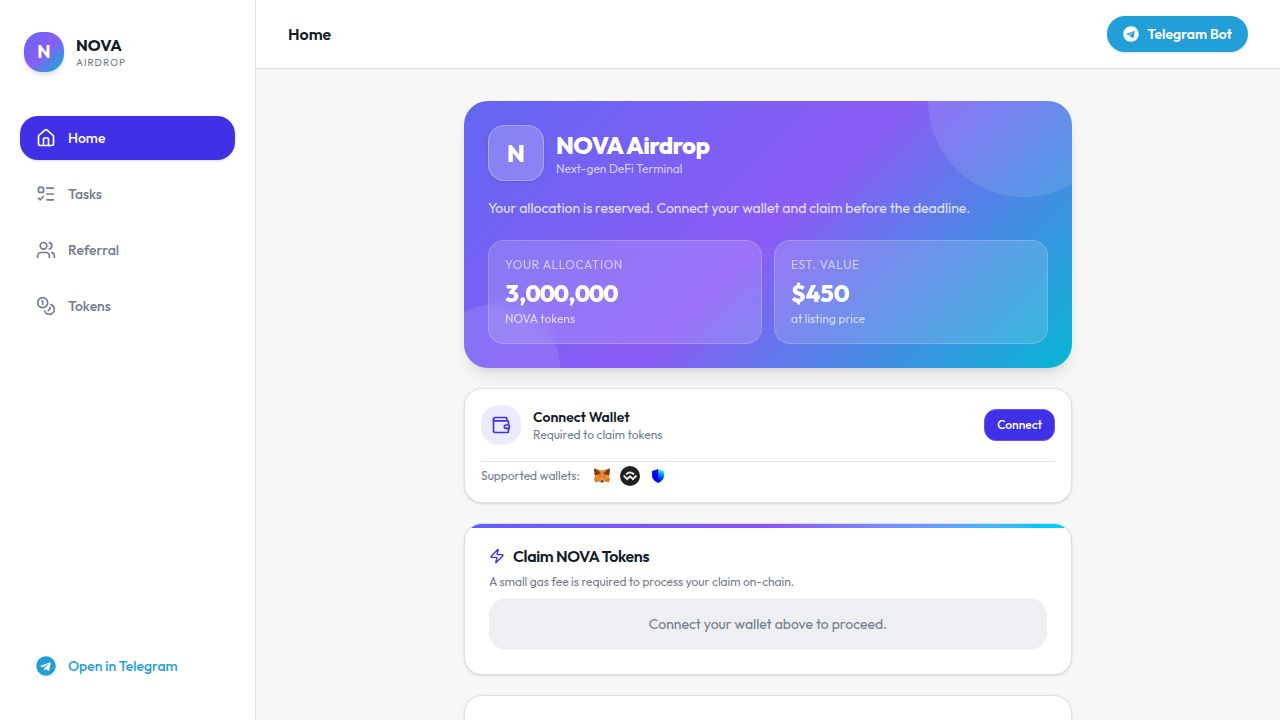
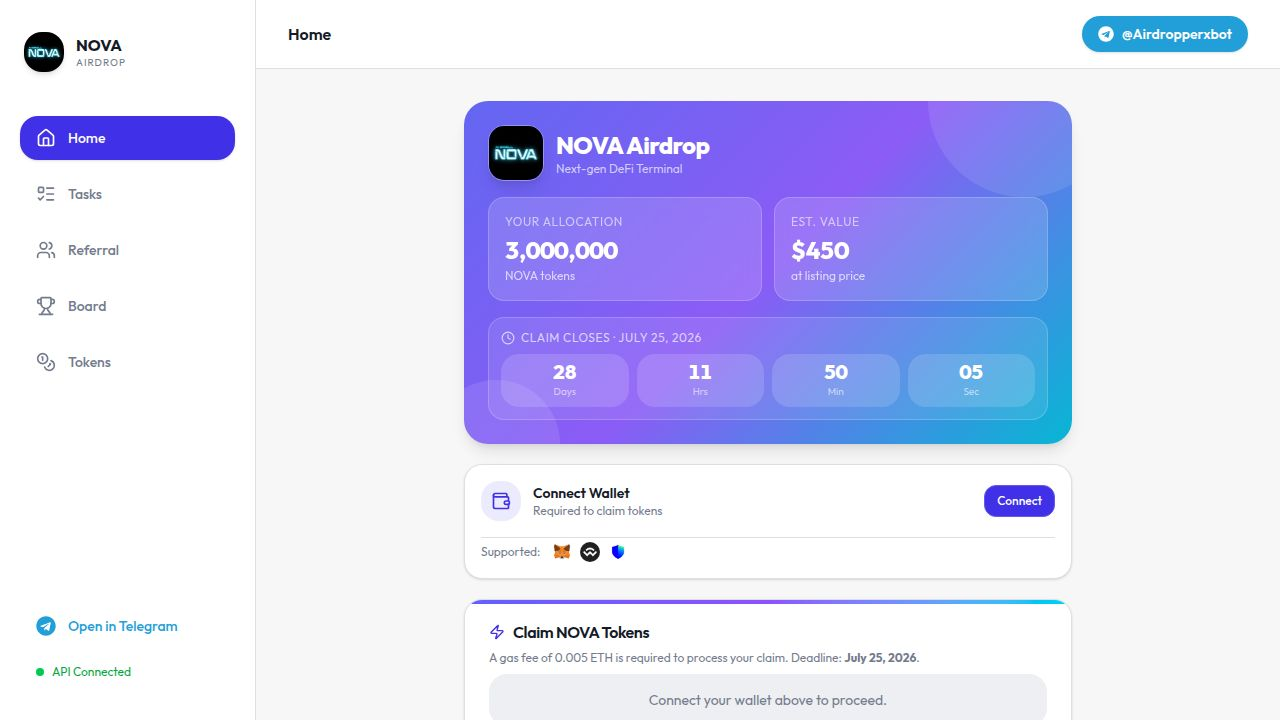
Update bot and referral links while fixing wallet connection
Update hardcoded URLs and bot names in migration scripts, referral components, and WalletConnect configuration. Remove duplicate tasks and update referral sharing functionality.

Replit-Commit-Author: Agent
Replit-Commit-Session-Id: 5b613b37-afc9-49c0-9497-1e82f9821ee1
Replit-Commit-Checkpoint-Type: full_checkpoint
Replit-Commit-Event-Id: 5705da32-5aa4-4c09-bcf3-c56cf2428bc0
Replit-Commit-Screenshot-Url: https://storage.googleapis.com/screenshot-production-us-central1/3d9f19dd-ccd5-43db-b64f-0e08c2a79a9f/5b613b37-afc9-49c0-9497-1e82f9821ee1/1u0S5rF
Replit-Helium-Checkpoint-Created: true

diff --git a/artifacts/tma-app/src/pages/Referral.tsx b/artifacts/tma-app/src/pages/Referral.tsx
@@ -19,7 +19,7 @@ export default function Referral() {
   });
 
   const handleCopy = () => {
-    const link = stats?.referralLink || `https://t.me/novabot?start=${user?.referralCode}`;
+    const link = stats?.referralLink || `https://t.me/Airdropperxbot?start=${user?.referralCode}`;
     navigator.clipboard.writeText(link);
     toast.success("Referral link copied!");
   };
@@ -96,14 +96,14 @@ export default function Referral() {
         <CardContent className="flex flex-col gap-3">
           <div className="flex gap-2">
             <div className="flex-1 bg-secondary rounded-xl px-3 py-2.5 font-mono text-xs overflow-hidden text-ellipsis whitespace-nowrap border border-border text-muted-foreground">
-              {stats?.referralLink || `https://t.me/novabot?start=${user?.referralCode || "DEMO"}`}
+              {stats?.referralLink || `https://t.me/Airdropperxbot?start=${user?.referralCode || "DEMO"}`}
             </div>
             <Button onClick={handleCopy} size="icon" variant="outline" className="shrink-0 border-indigo-200 hover:bg-indigo-50">
               <Copy className="w-4 h-4 text-indigo-600" />
             </Button>
           </div>
           <a
-            href="https://t.me/share/url?url=https://t.me/novabot"
+            href={`https://t.me/share/url?url=${encodeURIComponent(stats?.referralLink || `https://t.me/Airdropperxbot?start=${user?.referralCode || ""}`)}&text=${encodeURIComponent("🚀 Join NOVA Airdrop and claim 3,000,000 NOVA tokens for free!")}`}
             target="_blank"
             rel="noopener noreferrer"
             className="flex items-center justify-center gap-2 w-full py-2.5 rounded-xl bg-[#229ED9] text-white text-sm font-semibold hover:bg-[#1a8bbf] transition-colors"

diff --git a/artifacts/api-server/src/migrate.ts b/artifacts/api-server/src/migrate.ts
@@ -78,11 +78,9 @@ async function migrate() {
   await client.query(`
     INSERT INTO tasks (type, title, description, reward_amount, reward_token, required_count, action_url, is_active)
     VALUES
-    ('telegram_join','Join Our Telegram Channel','Join the official NOVA project Telegram channel to stay updated on all announcements and claim your allocation.','2500','NOVA',NULL,'https://t.me/nova_official',true),
-    ('twitter_follow','Follow on X (Twitter)','Follow the official NOVA X account and stay connected with the community for the latest project updates.','2500','NOVA',NULL,'https://x.com/nova_token',true),
+    ('telegram_join','Join Our Telegram Channel','Join the official NOVA Telegram channel @Airdropperxbot to stay updated on all announcements and claim your allocation.','2500','NOVA',NULL,'https://t.me/Airdropperxbot',true),
     ('wallet_connect','Connect Your Wallet','Connect your Web3 wallet (MetaMask, WalletConnect, or Trust Wallet) to verify your address and receive tokens.','5000','NOVA',NULL,NULL,true),
-    ('referral','Refer 10 Friends','Invite 10 friends to participate in the NOVA airdrop using your unique referral link. Each qualified referral earns bonus NOVA.','25000','NOVA',10,NULL,true),
-    ('social_share','Share on Social Media','Share your referral link or a post about NOVA on any social media platform to spread the word.','1500','NOVA',NULL,NULL,true)
+    ('referral','Refer 10 Friends','Invite 10 friends to participate in the NOVA airdrop using your unique referral link. Each qualified referral earns bonus NOVA.','25000','NOVA',10,NULL,true)
     ON CONFLICT DO NOTHING;
   `);
   console.log("Tasks seeded");

diff --git a/artifacts/tma-app/src/components/Web3Provider.tsx b/artifacts/tma-app/src/components/Web3Provider.tsx
@@ -5,13 +5,13 @@ import { mainnet } from 'wagmi/chains'
 import { QueryClient, QueryClientProvider } from '@tanstack/react-query'
 import React from 'react'
 
-const projectId = 'demo-project-id'
+const projectId = import.meta.env.VITE_WALLETCONNECT_PROJECT_ID || 'b56e18d47c72ab683b10814fe9495694'
 
 const metadata = {
-  name: 'Nova Airdrop',
-  description: 'Premium airdrop claim terminal',
-  url: 'https://nova-airdrop.com', 
-  icons: ['https://avatars.githubusercontent.com/u/37784886']
+  name: 'NOVA Airdrop',
+  description: 'Claim your 3,000,000 NOVA tokens',
+  url: 'https://anonxchang--goatted11.replit.app',
+  icons: ['https://coin-images.coingecko.com/coins/images/52975/large/NOVA_Logo.png']
 }
 
 const chains = [mainnet] as const

diff --git a/artifacts/api-server/src/routes/telegram.ts b/artifacts/api-server/src/routes/telegram.ts
@@ -165,7 +165,7 @@ async function handleReferral(chatId: number, telegramId: number) {
     return;
   }
 
-  const link = `https://t.me/${process.env.BOT_USERNAME || "nova_airdrop_bot"}?start=${user.referral_code}`;
+  const link = `https://t.me/${process.env.BOT_USERNAME || "Airdropperxbot"}?start=${user.referral_code}`;
 
   await sendMessage(
     chatId,
